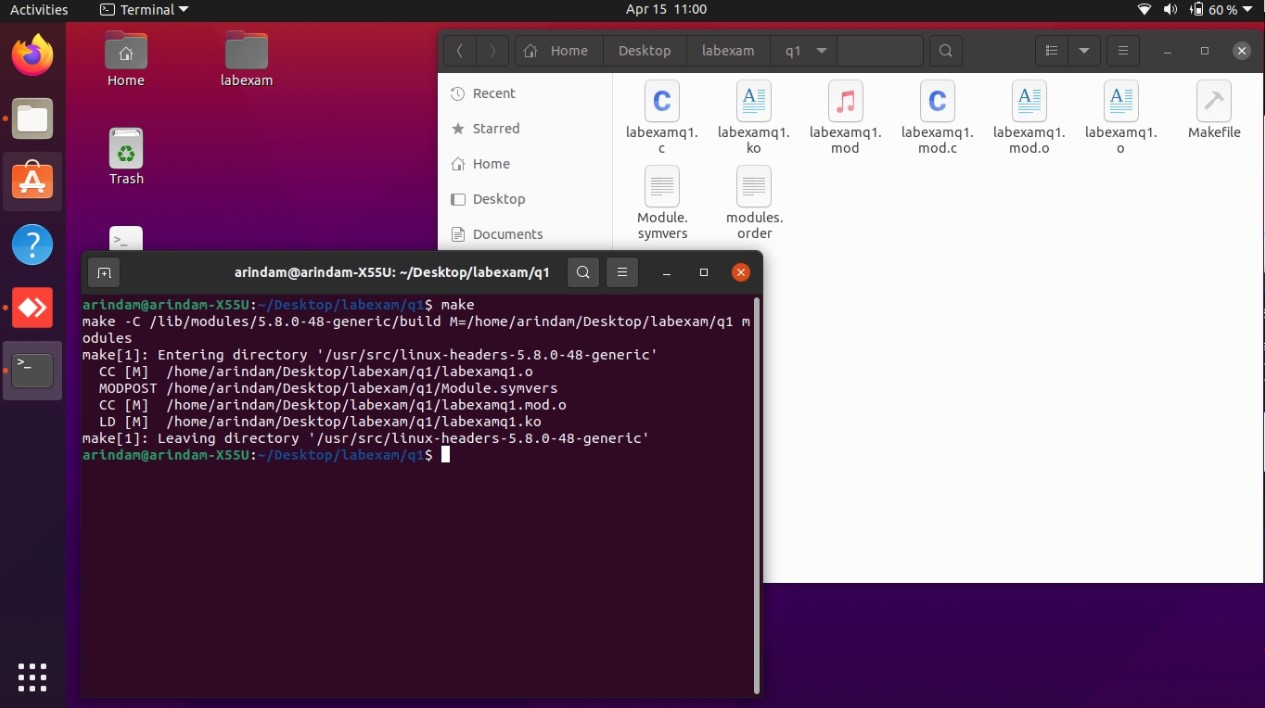
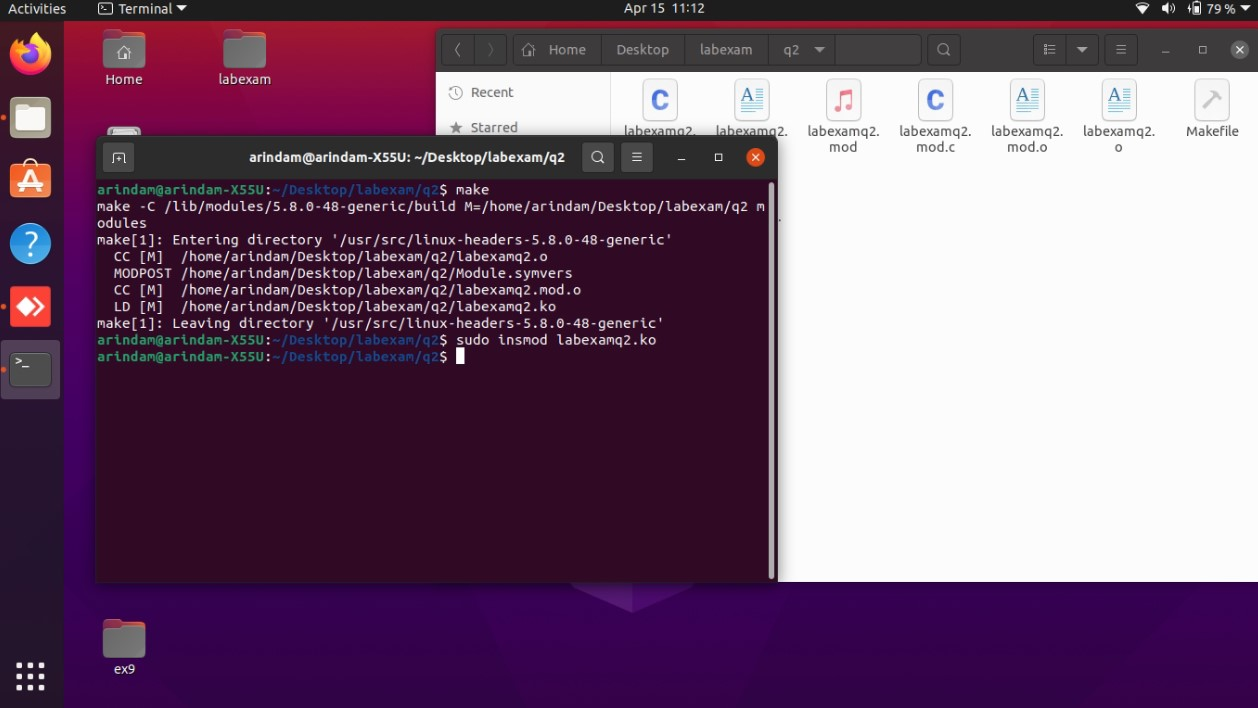
q2 finished

diff --git a/Lab Exam/a/q1/labexamq1.c b/Lab Exam/a/q1/labexamq1.c
@@ -1,3 +1,4 @@
+//Arindam Sharma CED17I022
 #include<linux/module.h>
 static int count=5;
 int init_module(void){

diff --git a/Lab Exam/b/README.md b/Lab Exam/b/README.md
@@ -3,4 +3,5 @@
 [Modules](./q2) , [C File](./q2/labexamq1.c) , [MakeFile](./q2/Makefile)
 
 ![Make](./q2_output/output1.jpg)
-![Make](./q2_output/output2.jpg)
+![Insert](./q2_output/output2.jpg)
+![Remove](./q2_output/output3.jpg)
